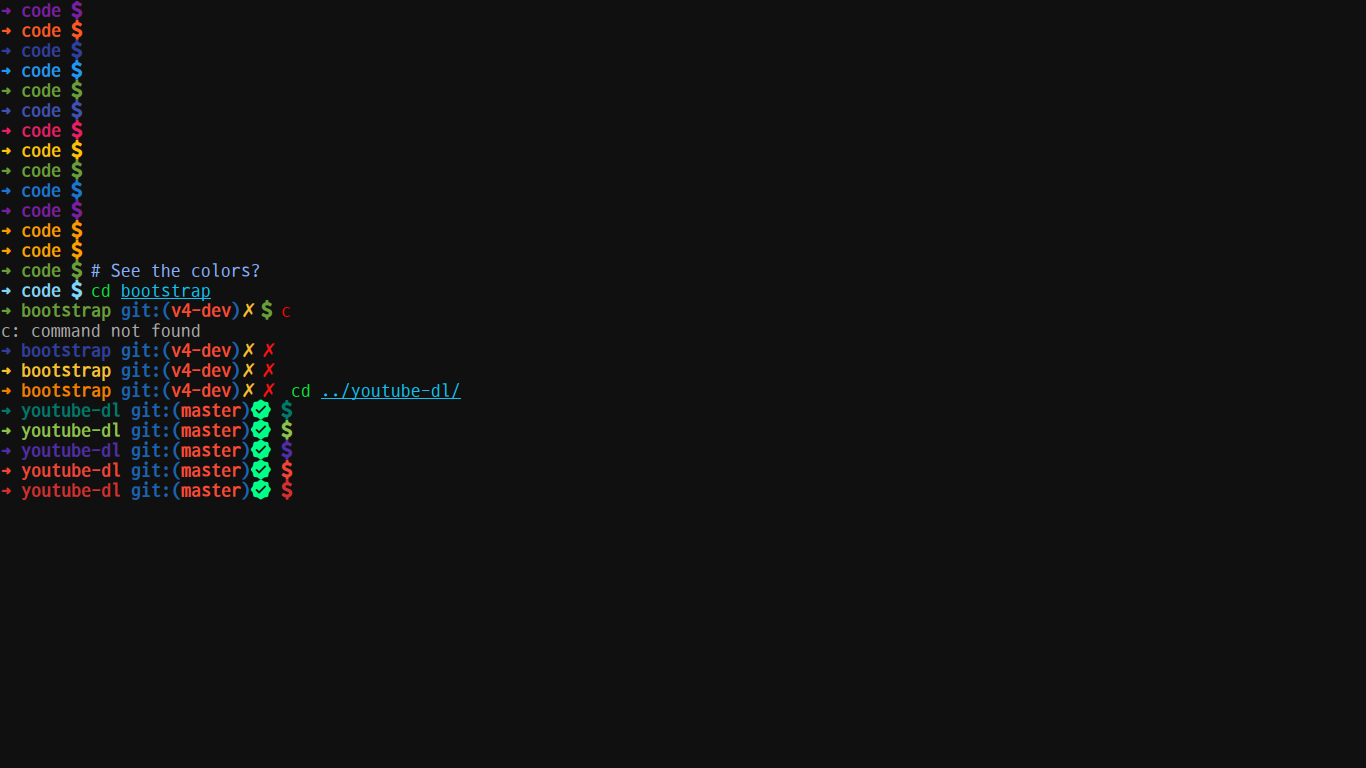
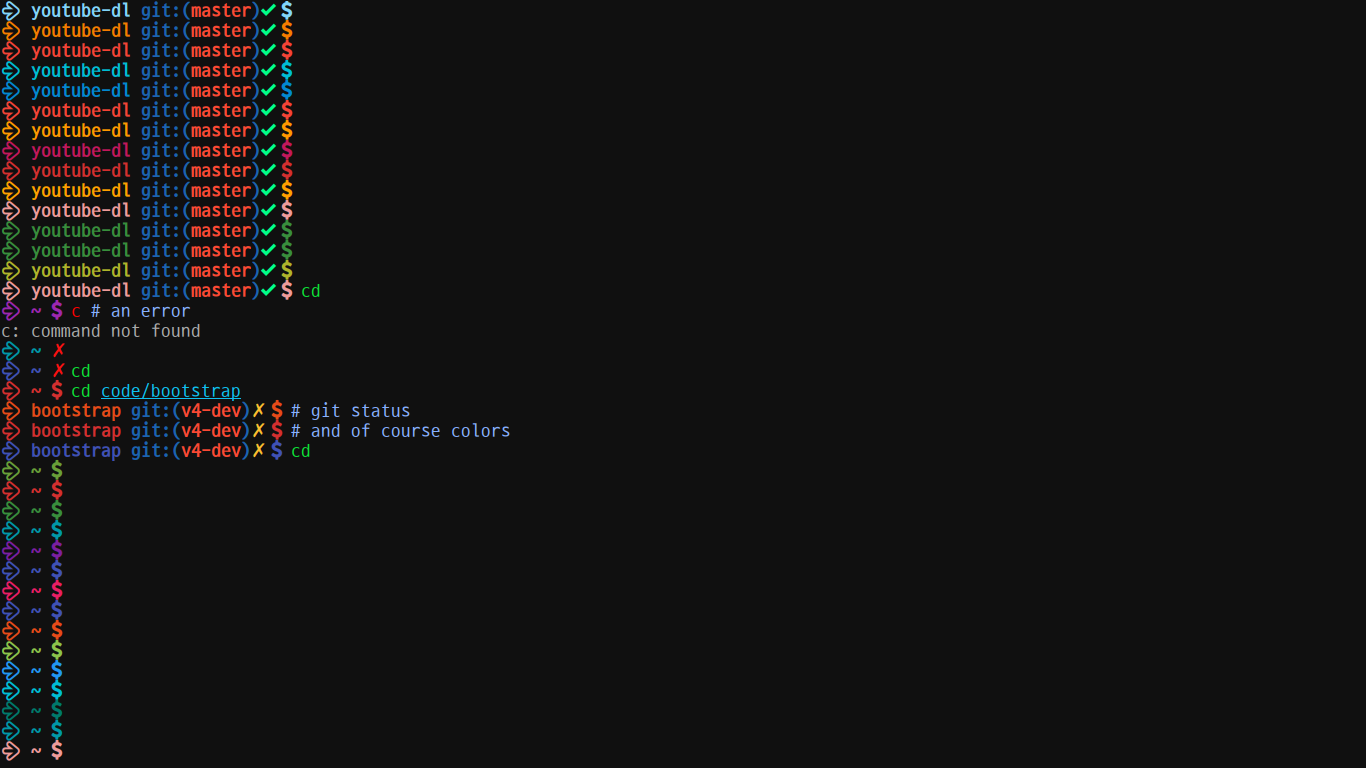
Update randomrussel

Changed region(s): [[0.0, 0.0, 0.3382, 1.0], [0.3382, 0.5312, 0.369, 0.5625]]

diff --git a/README.md b/README.md
@@ -16,3 +16,5 @@ A colorful robbyrussel clone.
 You will need [powerline](https://github.com/powerline/fonts
 ) or [nerd](https://github.com/ryanoasis/nerd-fonts
 ) font to display unicode characters correctly.
+
+You can download "D2Coding" powerline+nerdfont patched font [here](http://bit.ly/2pLiQku)
